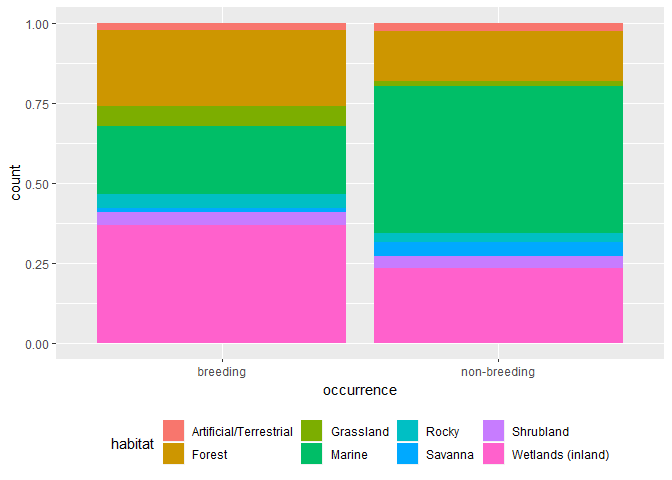
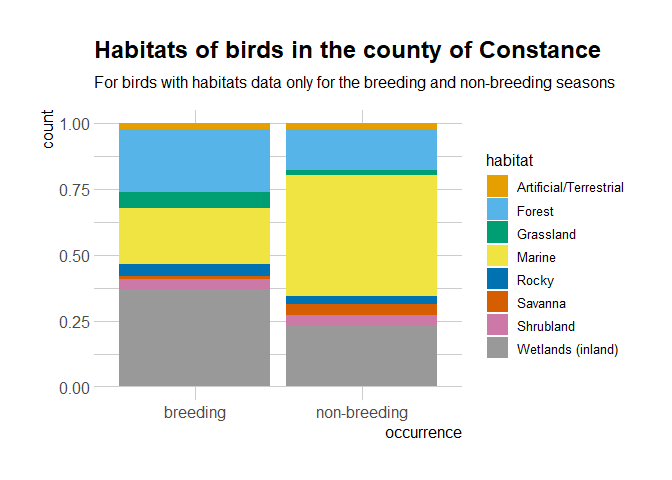
add post

diff --git a/content/blog/2018-09-04-birds-taxo-traits.md b/content/blog/2018-09-04-birds-taxo-traits.md
@@ -5,7 +5,7 @@ authors:
   - name: Maëlle Salmon
     url: https://masalmon.eu/
 date: 2018-09-04
-preface: The blog post series corresponds to the material for a talk Maëlle will give at the [Animal Movement Analysis summer school in Radolfzell, Germany on September the 12th](http://animove.org/animove-2019-evening-keynotes/), in a Max Plant Institute of Ornithology.
+preface: The blog post series corresponds to the material for a talk Maëlle will give at the [Animal Movement Analysis summer school in Radolfzell, Germany on September the 12th](http://animove.org/animove-2019-evening-keynotes/), in a Max Planck Institute of Ornithology.
 tags:
 - auk
 - taxize
@@ -436,7 +436,15 @@ habitat %>%
   ggplot() +
   geom_bar(aes(occurrence, fill = habitat),
            position = "fill") +
-  theme(legend.position = "bottom")
+  # palette recommended in https://github.com/clauswilke/colorblindr
+  # for people with color-vision deficiency
+  colorblindr::scale_fill_OkabeIto() +
+  theme(legend.position = "bottom") +
+  hrbrthemes::theme_ipsum(base_size = 12, 
+                          axis_title_size = 12,
+                          axis_text_size = 12) +
+  ggtitle("Habitats of birds in the county of Constance",
+          subtitle = "For birds with habitats data only for the breeding and non-breeding seasons")
 ```
 
 ![](/img/blog-images/2018-09-04-birds-taxo-traits/unnamed-chunk-9-1.png)
@@ -538,9 +546,6 @@ Based on species’ names, one can also get traits data using the `traits`
 package as we did in this post. Also of interest is the rOpenSci’s
 [`originr` package](https://github.com/ropensci/originr) providing
 different datasets about invasive and alien species.
-
-Add a sentence about this cool use case of many packages
-<https://ropensci.org/blog/2017/01/25/obis/>
 
 Explore more of our packages suite, including and beyond the taxonomy
 and traits category, [here](https://ropensci.org/packages/).
